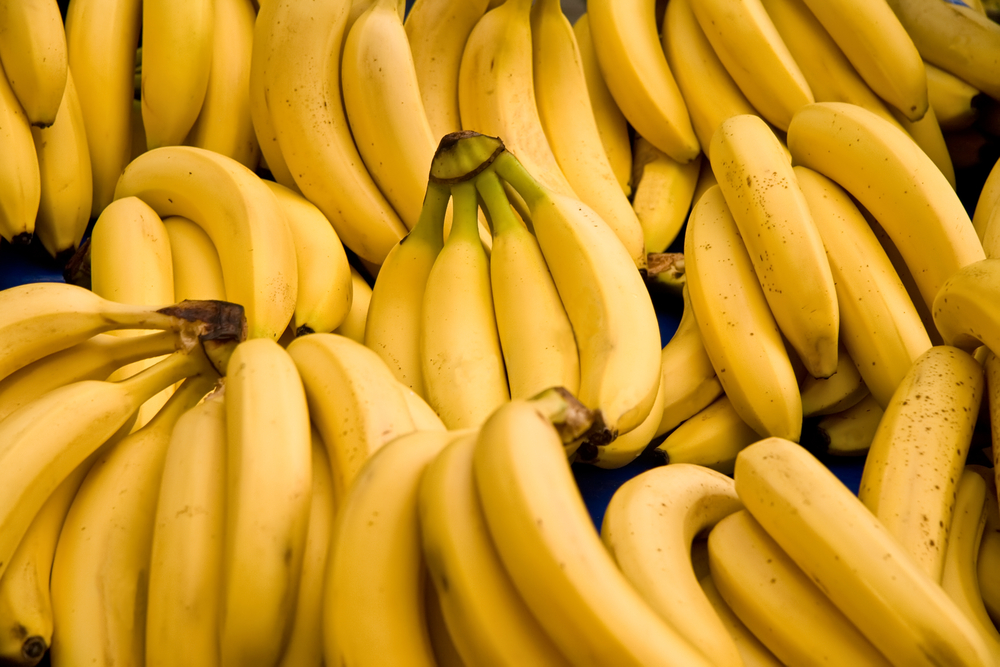
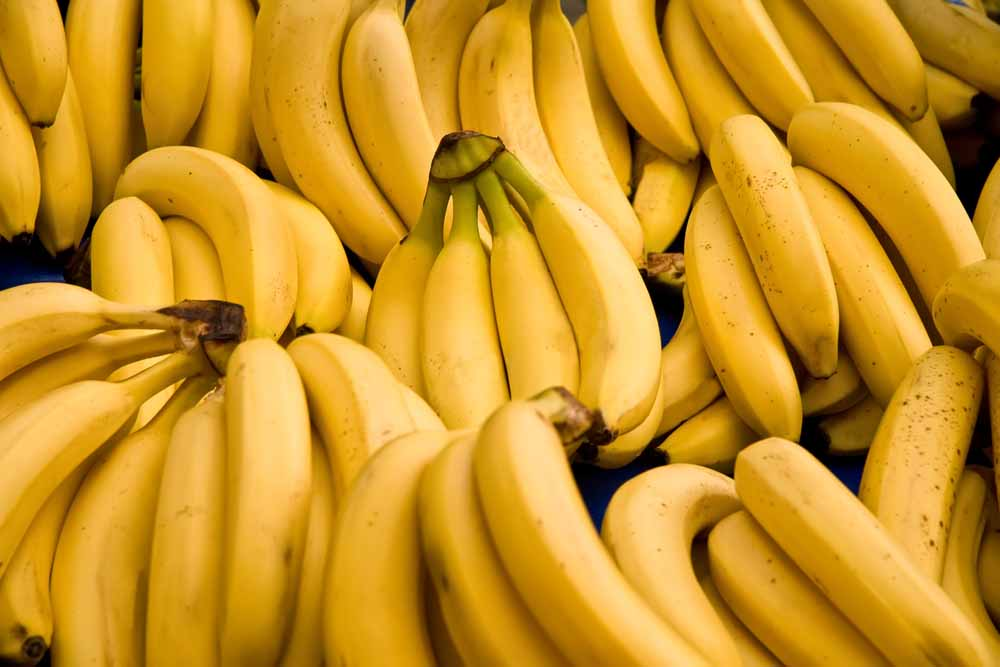
add resized photos and mapping

Changed region(s): [[0.837, 0.7196, 0.868, 0.7496], [0.651, 0.4798, 0.682, 0.5097], [0.0, 0.4198, 0.031, 0.4498]]

diff --git a/projects/project3/assets/sketch.js b/projects/project3/assets/sketch.js
@@ -6,6 +6,53 @@ var metricMapping = {
     // 'Income Share of Lowest 20%':'IncomeShareLowest20'
 };
 
+var imageMapping = {
+    "Sugarcane": 'sugarcane-1.jpeg',
+    "Cassava":'cassava.jpg',
+    "Rice": 'RicePaddy.jpg',
+    "Rootsandtubers": 'rootsTubers.png',
+    "Maize": 'maize.jpg',
+    "Coconuts": 'coconuts.jpg',
+    "Bananas": 'bananas.jpg',
+    "Millet": 'millet.jpg',
+    "Barley": 'millet.jpg',
+    "Yams": 'yams.jpg',
+    "Sweetpotatoes": 'yams.jpg',
+    "Plantainsandothers": 'plantains.jpeg',
+    "Sorghum": 'sorghum.jpg',
+    "Cereals": 'cereal.jpeg',
+    "Fonio": 'cereal.jpeg',
+    "Groundnuts": 'groundnuts.jpg',
+    "Sunflowerseed": 'groundnuts.jpg',
+    "Tomatoes":'tomatos.jpeg',
+    "Cashewnuts": 'cashew-seed.jpg',
+    "Potatoes": 'potatoes.jpg',
+    "Vegetables": 'Vegetables.jpg',
+    "Oil": 'oil.jpg',
+    "Onions": 'onion.jpg',
+    "Taro": 'taro.jpg',
+    "Cabbagesandotherbrassicas": 'cabbage.jpg',
+    "Cowpeas": 'cowpea.jpg',
+    "Peas": 'cowpea.jpg',
+    "Beans": 'cowpea.jpg',
+    "Pulses":'cowpea.jpg',
+    "Mangoes": 'mango.jpg',
+    "Fruit": 'mango.jpg',
+    "Oranges": 'mango.jpg',
+    "Apples": 'mango.jpg',
+    "Watermelons": 'mango.jpg',
+    "Grapes": 'mango.jpg',
+    "Pineapples": 'mango.jpg',
+    "Dates": 'dates.jpg',
+    "Wheat": 'wheat.jpeg',
+    "Seedcotton": 'cotton.jpg',
+    "Cottonseed": 'cotton.jpg',
+    "Cocoa": 'cocoa.jpg',
+    "Coffee": 'cocoa.jpg',
+    "Cottonlint": 'cocoa.jpg',
+    "Rubber": 'rubber.jpg'
+};
+
 var agData, data, divW, gdp, metricArray;
 
 var heightScale, crops;
@@ -240,12 +287,13 @@ function drawGhostCircles(){
 }
 
 function scale(){
-    crops.transition()
-        .duration(2000)
-        .attr('height', function(d){
+    //todo transition differently depending on whether scaling up or down
+    crops.attr('height', function(d){
             return (scaleSelect.property('checked')) ? (heightScale(d.GDP) * d.percentOfSubtotal):
                 (height * d.percentOfSubtotal);
         })
+        .transition()
+        .duration(2000)
         .attr('y', function (d,i){
             // reinitializing to full height for first element in each country
             if (i === 0) {y = height;}
